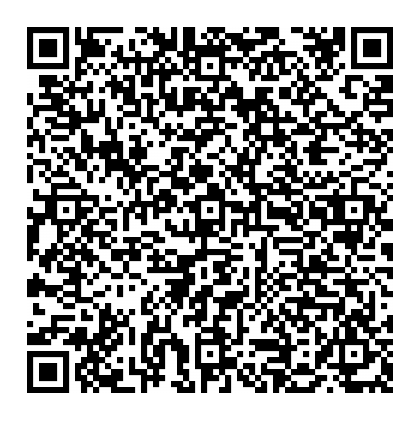
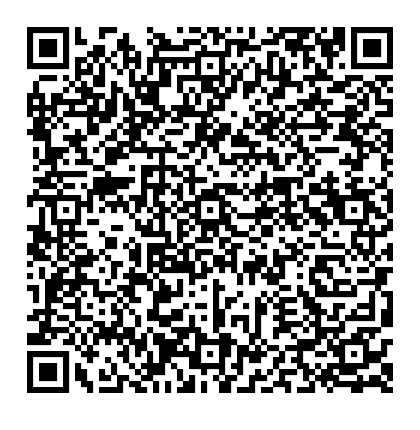
RH

diff --git a/app/Views/personal/vFormatoAsistenciaAll.php b/app/Views/personal/vFormatoAsistenciaAll.php
@@ -1,0 +1,82 @@
+<style>
+     #qr {
+        position: absolute;
+        width: 150px;
+        height: 150px;
+        text-align: center;
+        background-image: url('<?= $dataImagen ?>');
+        background-size: 100% 100%;
+        background-repeat: no-repeat;
+        background-attachment: fixed;
+    }
+</style>
+<div  style="position:absolute; text-align:center; top:11%; left:70%; width:35%; height:18px;  font-size: 11px; ">
+    <span class="proxima">Fecha: <?= date('d/m/Y'); ?></span>
+</div>
+<div  style="position:absolute; text-align:center; top:11%; left:5%; width:35%; height:18px;  font-size: 11px; ">
+    <span class="proxima">Folio: <strong style="color:red;" ><?= $folio ?></strong></span>
+</div>
+<?php 
+$top = 24;
+$nombre = 21;
+$dsc = 23;
+$contador = 0;
+
+foreach ($incidencia as $i): 
+?>
+<div style="position:absolute;top:<?= $nombre ?>%; text-align:center; left:17.5%; width:65%; background-color:white; height:20px; font-size: 12px;">
+    <span class="proxima"><strong><?= $i->nombre_completo?></strong></span>
+</div>
+<div style="position:absolute;top:<?= $dsc ?>%;text-align:center; left:17.5%; width:65%; background-color:white; height:20px; font-size: 12px;">
+    <span class="proxima"><strong><?= $i->dsc_area?></strong></span>
+</div>
+
+<?php $top += 1.7; ?>
+<div style="position:absolute;top:<?= $top ?>%; left:11.5%; width:23%; height:20px; font-size: 12px;">
+    <span class="proxima"><strong>Tipo de Incidencia:</strong></span>
+</div>
+<div style="position:absolute;top:<?= $top ?>%; left:35.5%; width:50%; height:20px; font-size: 12px;">
+    <i><?= $i->dsc_incidencia ?> </i>
+</div>
+<?php $top += 1.7; ?>
+<div style="position:absolute;top:<?= $top ?>%; left:11.5%; width:23%; height:20px; font-size: 12px;">
+    <span class="proxima"><strong>Incidencia:</strong></span>
+</div>
+<div style="position:absolute;top:<?= $top ?>%; left:35.5%; width:50%; height:20px; font-size: 12px;">
+    <i><?= $i->detalles ?> </i>
+</div>
+<?php $top += 1.6; ?>
+<div style="position:absolute;top:<?= $top ?>%; left:11.5%; width:23%; height:20px; font-size: 12px;">
+    <span class="proxima"><strong>Fecha:</strong></span>
+</div>
+<div style="position:absolute;top:<?= $top ?>%; left:35.5%; <?php ($i->tipo == 2)?'width:43%':'width:23%' ?> height:20px; font-size: 12px;">
+    <?php if($i->tipo == 1): ?>
+    <i><?=date('d/m/Y', strtotime($i->fecha)).' ' .date('H:i', strtotime($i->hora_inicio)).' - ' .date('H:i', strtotime($i->hora_fin))?> </i>
+    <?php endif; ?>
+    <?php if($i->tipo == 2): ?>
+    <i><?=date('d/m/Y', strtotime($i->fecha_inicio)).' al ' .date('d/m/Y', strtotime($i->fecha_fin)).' de '.date('H:i', strtotime($i->hora_inicio)).' - ' .date('H:i', strtotime($i->hora_fin))?> </i>
+    <?php endif; ?>
+</div>
+<?php $top += 1.8; ?>
+<div style="position:absolute; top:<?= $top ?>%; left:11.5%; width:80%; height:1px; border-top:1px solid #000;"></div>
+
+<?php 
+$top += 1.5;
+
+$contador++;
+
+// 👉 Cada 6 registros, fuerza salto de página y reinicia el top
+if ($contador % 6 == 0) {
+    echo '<div style="page-break-after: always;"></div>';
+    $top = 21; // Reinicia altura
+}
+endforeach; 
+?>
+<div id="qr" style="top:<?= $top ?>%; left:40%;"></div>
+
+
+
+
+
+
+

diff --git a/app/Controllers/Agregar.php b/app/Controllers/Agregar.php
@@ -3458,15 +3458,28 @@ class Agregar extends BaseController
         $fechaFin = date('Y-m-d', strtotime($fec_fin));
 
         $data = array();
-        $incidencia = $globals->getTabla([
-            'tabla' => 'vw_incidenica',
-            'where' => ['id_usuario' => $usuario, 'id_estatus' => 3],
-            'whereBetween' => [['fecha_inicio', $fechaInicio, $fechaFin]]
-        ]);
+        if($usuario == 'todos'){
+            $incidencia = $globals->getTabla([
+                'tabla' => 'vw_incidenica',
+                'where' => ['id_estatus' => 3],
+                'whereBetween' => [['fecha_inicio', $fechaInicio, $fechaFin]]
+            ]);
+        }else{
+             $incidencia = $globals->getTabla([
+                'tabla' => 'vw_incidenica',
+                'where' => ['id_usuario' => $usuario, 'id_estatus' => 3],
+                'whereBetween' => [['fecha_inicio', $fechaInicio, $fechaFin]]
+            ]);
 
+        }
+        //die( var_dump( $incidencia->data ) );
         $data['incidencia'] = (isset($incidencia->data) && !empty($incidencia->data)) ? $incidencia->data : '';
-        $data['usuario'] = (isset($incidencia->data) && !empty($incidencia->data)) ? $incidencia->data[0] : '';
-
+              if($usuario == 'todos'){
+                $data['usuario'] = (isset($incidencia->data) && !empty($incidencia->data)) ? $incidencia->data : '';
+              }else{
+                $data['usuario'] = (isset($incidencia->data) && !empty($incidencia->data)) ? $incidencia->data[0] : '';
+              }
+       
         $tempQrPath = FCPATH . 'assets/images/qr_final.png';
         $folio = 'GTO - ' . date('YmdHis') . substr((string) microtime(), 1, 4);
         // Generar el QR
@@ -3488,8 +3501,10 @@ class Agregar extends BaseController
         $data['dataImagen'] = $dataImagen;
         $data['folio'] = $folio;
 
+        $vista = ($usuario == 'todos')?'personal/vFormatoAsistenciaAll.php':'personal/vFormatoAsistenciaUser.php';
+
         $doc = 'assets/pdf/plantillas/asistencia.pdf';
-        $formato = 'personal/vFormatoAsistenciaUser.php';
+        $formato = $vista;
         $html = view($formato, $data);
         // Crear instancia de mPDF
         $mpdf = new \Mpdf\Mpdf([
@@ -3536,6 +3551,11 @@ class Agregar extends BaseController
         $id_usuario = $this->request->getPost('usuario');
         $fec_ini = date('Y-m-d', strtotime($periodoInicio));
         $fec_fin = date('Y-m-d', strtotime($periodoFin));
+        if($id_usuario == 'todos'){
+            $response->error = false;
+            $response->respuesta = 'Si existen incidencia del usuario';
+            return $this->respond($response);
+        }
         $tabla = [
             'tabla' => 'incidencia',
             'where' => ['id_usuario' => $id_usuario],

diff --git a/app/Views/secciones/vListaIncidencia.php b/app/Views/secciones/vListaIncidencia.php
@@ -71,6 +71,7 @@
                                                             <?php foreach($usuario as $p): ?>
                                                             <option value="<?= $p->id_usuario ?>" > <?= $p->nombre_completo ?> </option>
                                                             <?php endforeach; ?>
+                                                              <option value="todos" > TODO EL PERSONAL </option>
                                                         </select>
                                                 </div>
                                                   <div class="col-md-3">
@@ -319,7 +320,7 @@ $(document).ready(function() {
         // Agregar solo las opciones con id >= idInicio
         todasLasOpciones.forEach(option => {
             const idOpcion = parseInt(option.getAttribute('data-id'));
-            if (idOpcion >= idInicio+1) {
+            if (idOpcion >= idInicio) {
                 fin.appendChild(option.cloneNode(true));
             }
         });

diff --git a/app/Controllers/Inicio.php b/app/Controllers/Inicio.php
@@ -336,7 +336,7 @@ class Inicio extends BaseController {
         $session = \Config\Services::session();
         $principal = new Mglobal;
    
-    if (!in_array($session->get('id_perfil'), [1, 3])) {
+        if (!in_array($session->get('id_perfil'), [1, 3])) {
             $data['contentView'] = 'secciones/vError500';
             $data['layout'] = 'plantilla/lytVacio';
             $this->_renderView($data);
